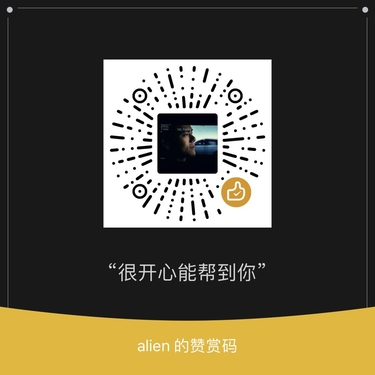
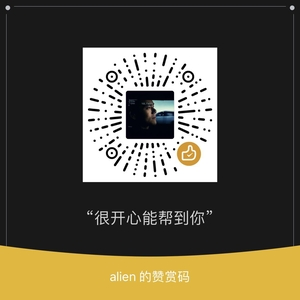
修改分辨率

diff --git a/README.md b/README.md
@@ -49,7 +49,8 @@
 
 如果你觉得对你有帮助，或者你开心的话，可以请作者喝一杯咖啡：
 
-![image](/assets/wx.jpeg)![image](/assets/zfb.jpeg)
+![wx](/assets/wx.jpeg)
+![zfb](/assets/zfb.jpeg)
 
 # 致谢
 感谢所学到的所有逆向前辈！
